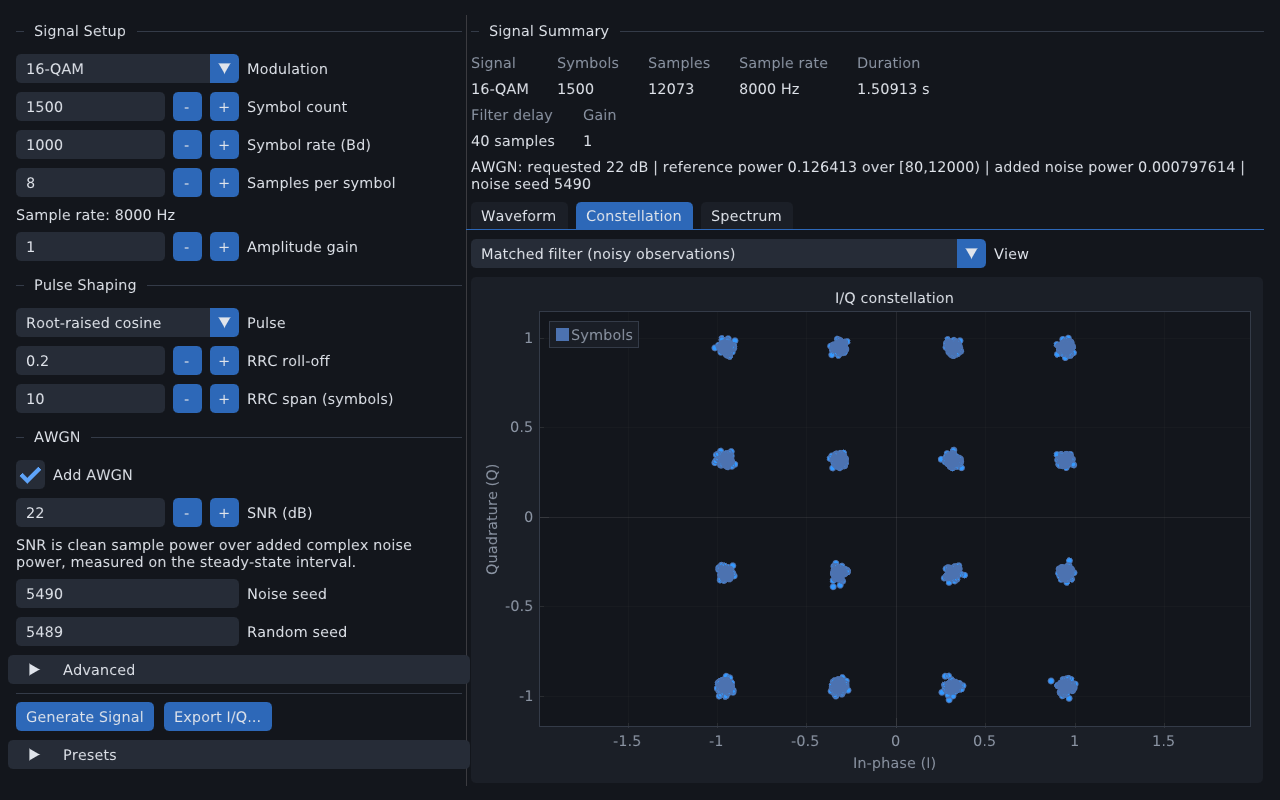
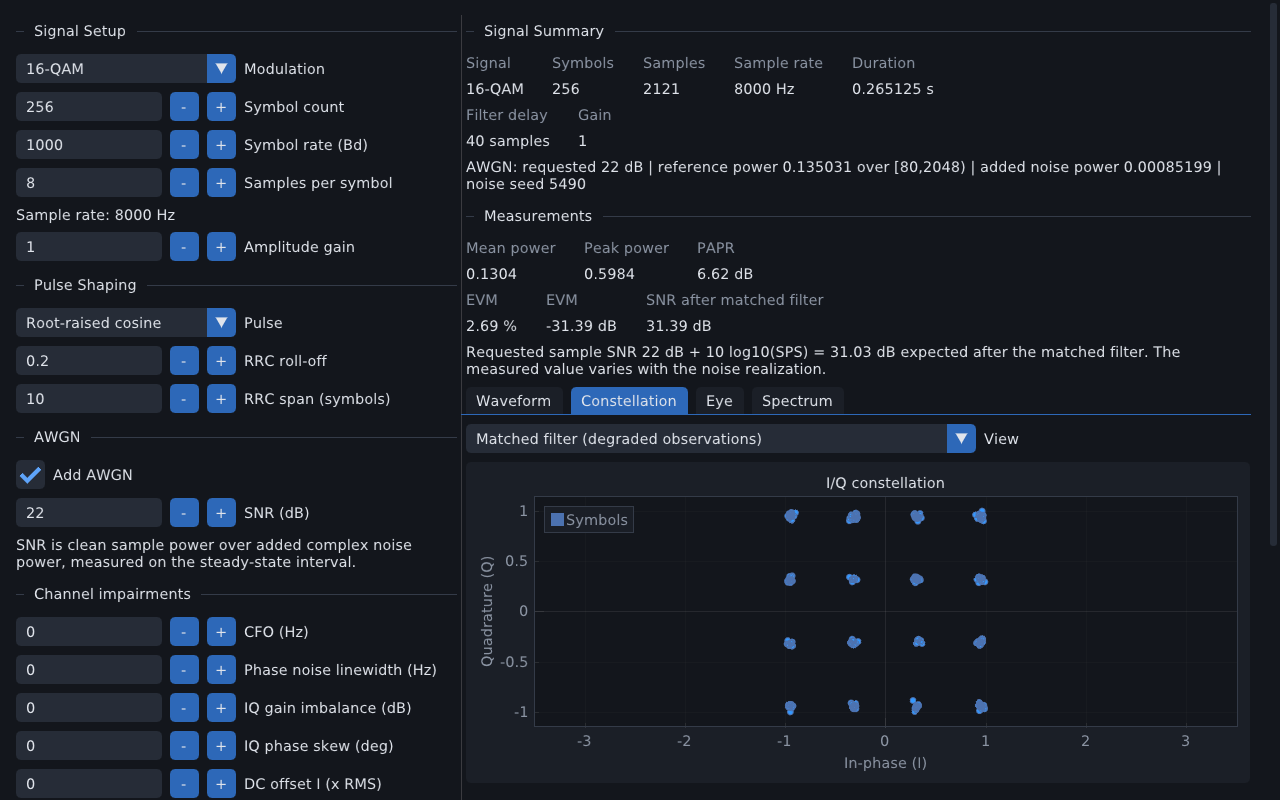
Bump version to 0.3.0 and refresh README and screenshots
Claude-Session: https://claude.ai/code/session_01DvnvwhYBfGLmAE5dHPZ7vi

diff --git a/README.md b/README.md
@@ -3,10 +3,12 @@
 [![CI](https://github.com/ronnymilleo/siggen/actions/workflows/ci.yml/badge.svg)](https://github.com/ronnymilleo/siggen/actions/workflows/ci.yml)
 
 A C++23 signal generator with a command-line interface and optional ImGui/ImPlot
-GUI. Generate reproducible complex I/Q samples for BPSK, QPSK, Gray-coded 8-PSK,
-Gray-coded square 16-QAM, Gray-coded square 64-QAM, and complex white Gaussian
-noise (WGN), with optional AWGN on linear signals; inspect waveforms,
-constellations and a two-sided spectrum; save presets; export single signals; and
+GUI. Generate reproducible complex I/Q samples for BPSK, QPSK, OQPSK, pi/4-DQPSK,
+DBPSK, DQPSK, 8-PSK, 8-DPSK, 4-ASK, OOK, 4-PAM, 16/32/64/256-QAM, 2-FSK, 4-FSK, MSK,
+and complex white Gaussian noise (WGN), with optional AWGN and simple channel
+impairments on linear signals; inspect waveforms, constellations, eye diagrams,
+a two-sided spectrum and measurements (PAPR, EVM, measured SNR); work through
+guided lesson presets; save presets; export single signals; and
 generate swept fixed-length frame datasets (`siggen batch`) for classifier
 training. This application generates complex baseband, not an RF carrier.
 
@@ -19,6 +21,9 @@ training. This application generates complex baseband, not an RF carrier.
 
   <img width="900" src="docs/images/gui-spectrum.png" alt="Spectrum tab showing the two-sided Welch PSD" />
   <p align="center"><em>Spectrum - two-sided Welch PSD</em></p>
+
+  <img width="900" src="docs/images/gui-eye.png" alt="Eye tab showing the eye diagram of 16-QAM" />
+  <p align="center"><em>Eye - overlaid symbol-period traces</em></p>
 </div>
 
 ## Build and test
@@ -277,7 +282,7 @@ amplitude gain in **Signal Setup**. Choose RRC or rectangular pulses in **Pulse
 Shaping**. The **AWGN** section enables additive noise with a requested SNR in
 dB; the visible data seed defaults to 5489 and the noise seed to 5490.
 **Advanced** selects seeded random bits or exact explicit binary input (up to
-six bits per symbol). Selecting **WGN** replaces the symbol controls with the
+eight bits per symbol). Selecting **WGN** replaces the symbol controls with the
 noise source: sample count, sample rate, total complex noise power, and noise
 seed.
 
@@ -617,8 +622,9 @@ results show waveform, spectrum and power statistics without any symbol
 constellation. FSK and MSK results replace the constellation and eye with a
 **Frequency** tab (see "Frequency modulation").
 
-**Spectrum** uses full complex samples, independent of waveform reduction. The
-Welch estimator uses a periodic Hann window, 50% overlap, no mean subtraction,
+**Eye** overlays two-symbol-period traces of the matched-filter I and Q (OQPSK
+shows the half-symbol Q offset). **Spectrum** uses full complex samples, independent of waveform reduction. The
+Welch estimator uses a periodic window (Hann by default, see above), 50% overlap, no mean subtraction,
 and an unnormalized forward FFT with negative exponent. The default segment size
 is 1024; shorter buffers use the largest power of two that fits, with a minimum
 of four samples. Only complete segments contribute; an incomplete trailing
@@ -730,7 +736,10 @@ assert len(iq) == metadata["sample_count"]
 - `library/batch.*`: fixed-length frame generation, seed derivation and the
   manifest-writing batch writer.
 - `library/signal_processing.*`: stable RRC taps and convolution.
-- `library/signal_analysis.*`: matched observations and Welch PSD.
+- `library/signal_analysis.*`: matched observations and Welch PSD with selectable window.
+- `library/measurements.*`: power statistics (PAPR), EVM, measured SNR and eye traces.
+- `library/impairments.*`: carrier offset, phase noise, IQ imbalance, DC offset and quantization.
+- `presets/`: guided lesson presets (`NN-name.preset`, with `#` note lines).
 - `library/preset.*`, `library/iq_export.*`: validated file I/O.
 - `application/command_line.h`, `application/cli_config.*`: CLI parsing and
   defaults → preset → explicit-option resolution.
@@ -782,7 +791,7 @@ sanitizer tests may need to run outside a ptrace-based sandbox. Do not disable
 leak detection to make that environment pass. macOS is built and tested in CI (headless tests plus a GUI compile); the UI smoke tests are not run there.
 
 This iteration excludes SDR streaming, RF carrier synthesis, analog modulation,
-channel impairments and eye diagrams. FSK/MSK waveforms, AMCPy-specific dataset
+GFSK/GMSK, multipath and fading, AMCPy-specific dataset
 conversion, GUI batch controls, batch resume and automatic cleanup remain
 deferred. Large RRC spans take longer to generate;
 there is no cancellation, and application closure waits for generation. The
